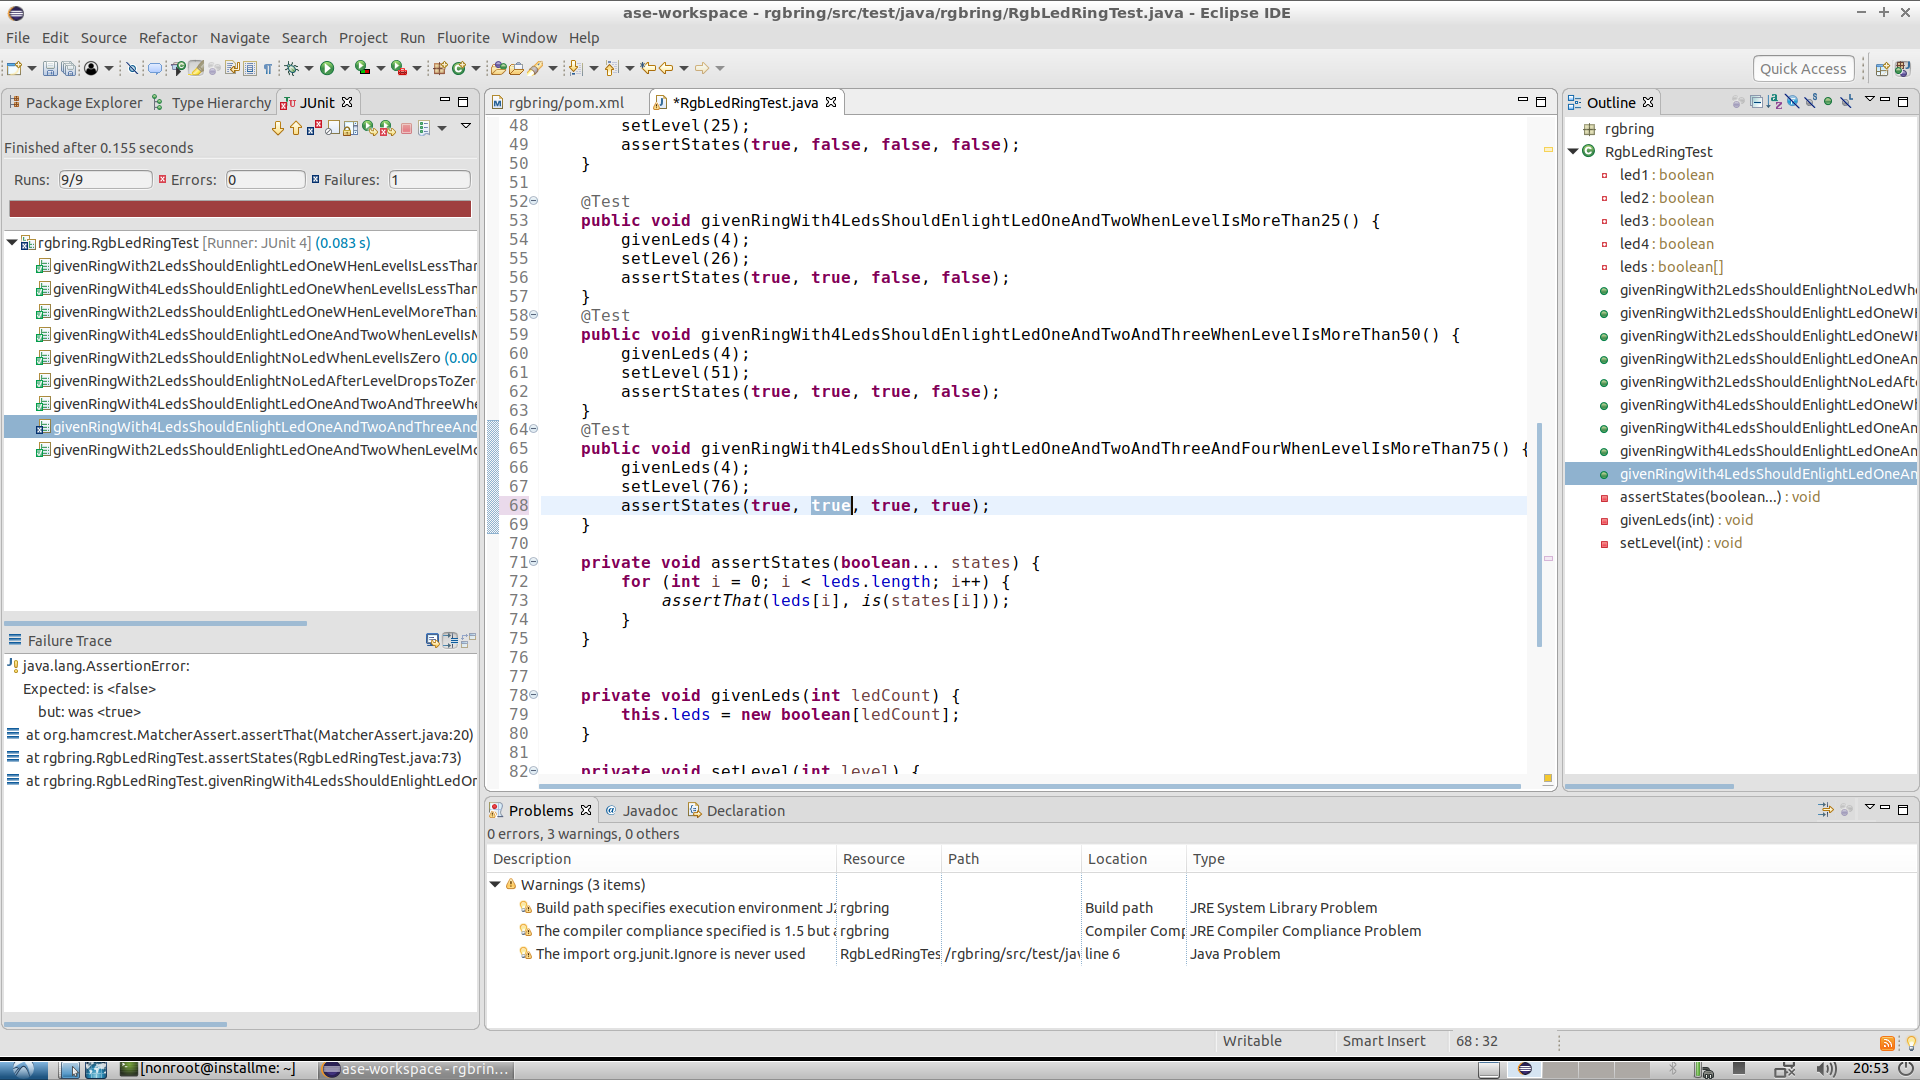
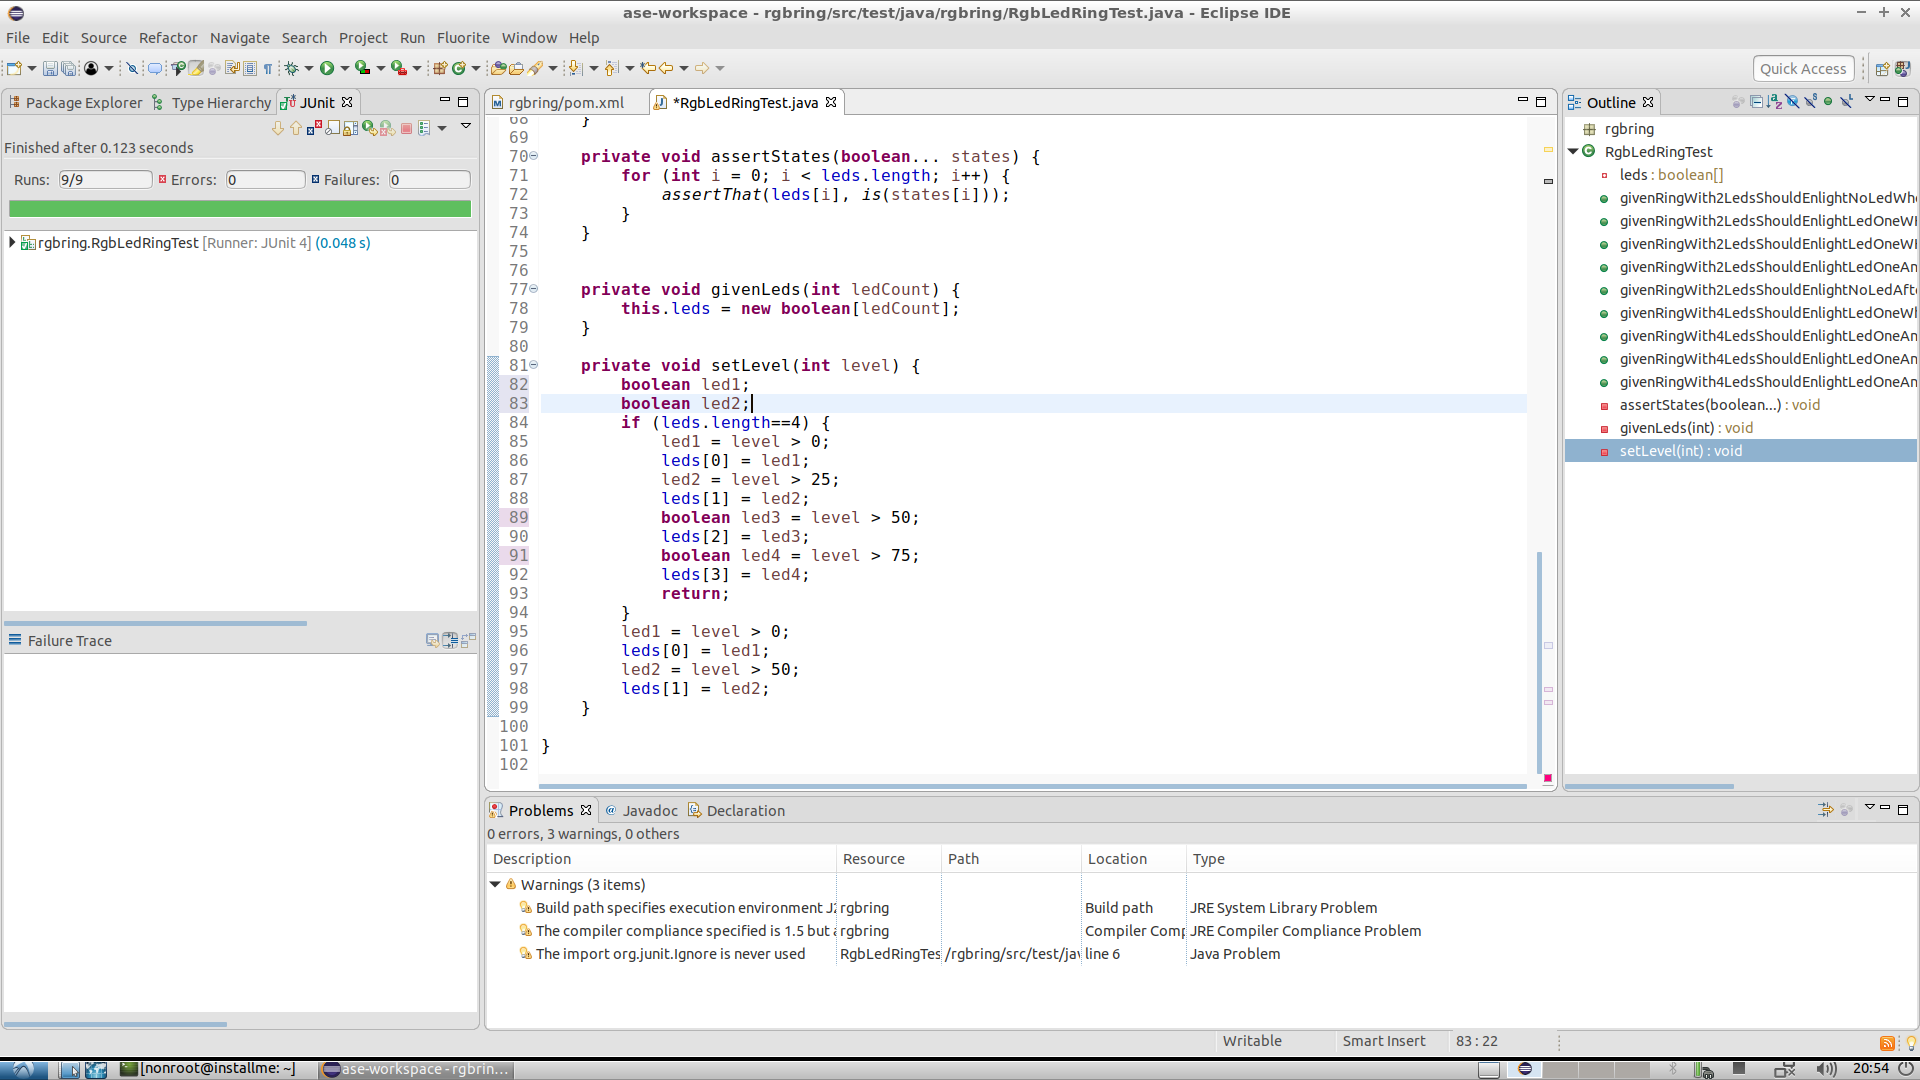
autocommit on change

diff --git a/src/test/java/rgbring/RgbLedRingTest.java b/src/test/java/rgbring/RgbLedRingTest.java
@@ -8,7 +8,6 @@ import org.junit.Test;
 
 public class RgbLedRingTest {
 
-	private boolean led1, led2, led3, led4;
 	private boolean[] leds = new boolean[2];
 	
 	@Test
@@ -80,14 +79,16 @@ public class RgbLedRingTest {
 	}
 
 	private void setLevel(int level) {
+		boolean led1;
+		boolean led2;
 		if (leds.length==4) {
 			led1 = level > 0;
 			leds[0] = led1;
 			led2 = level > 25;
 			leds[1] = led2;
-			led3 = level > 50;
+			boolean led3 = level > 50;
 			leds[2] = led3;
-			led4 = level > 75;
+			boolean led4 = level > 75;
 			leds[3] = led4;
 			return;
 		}
